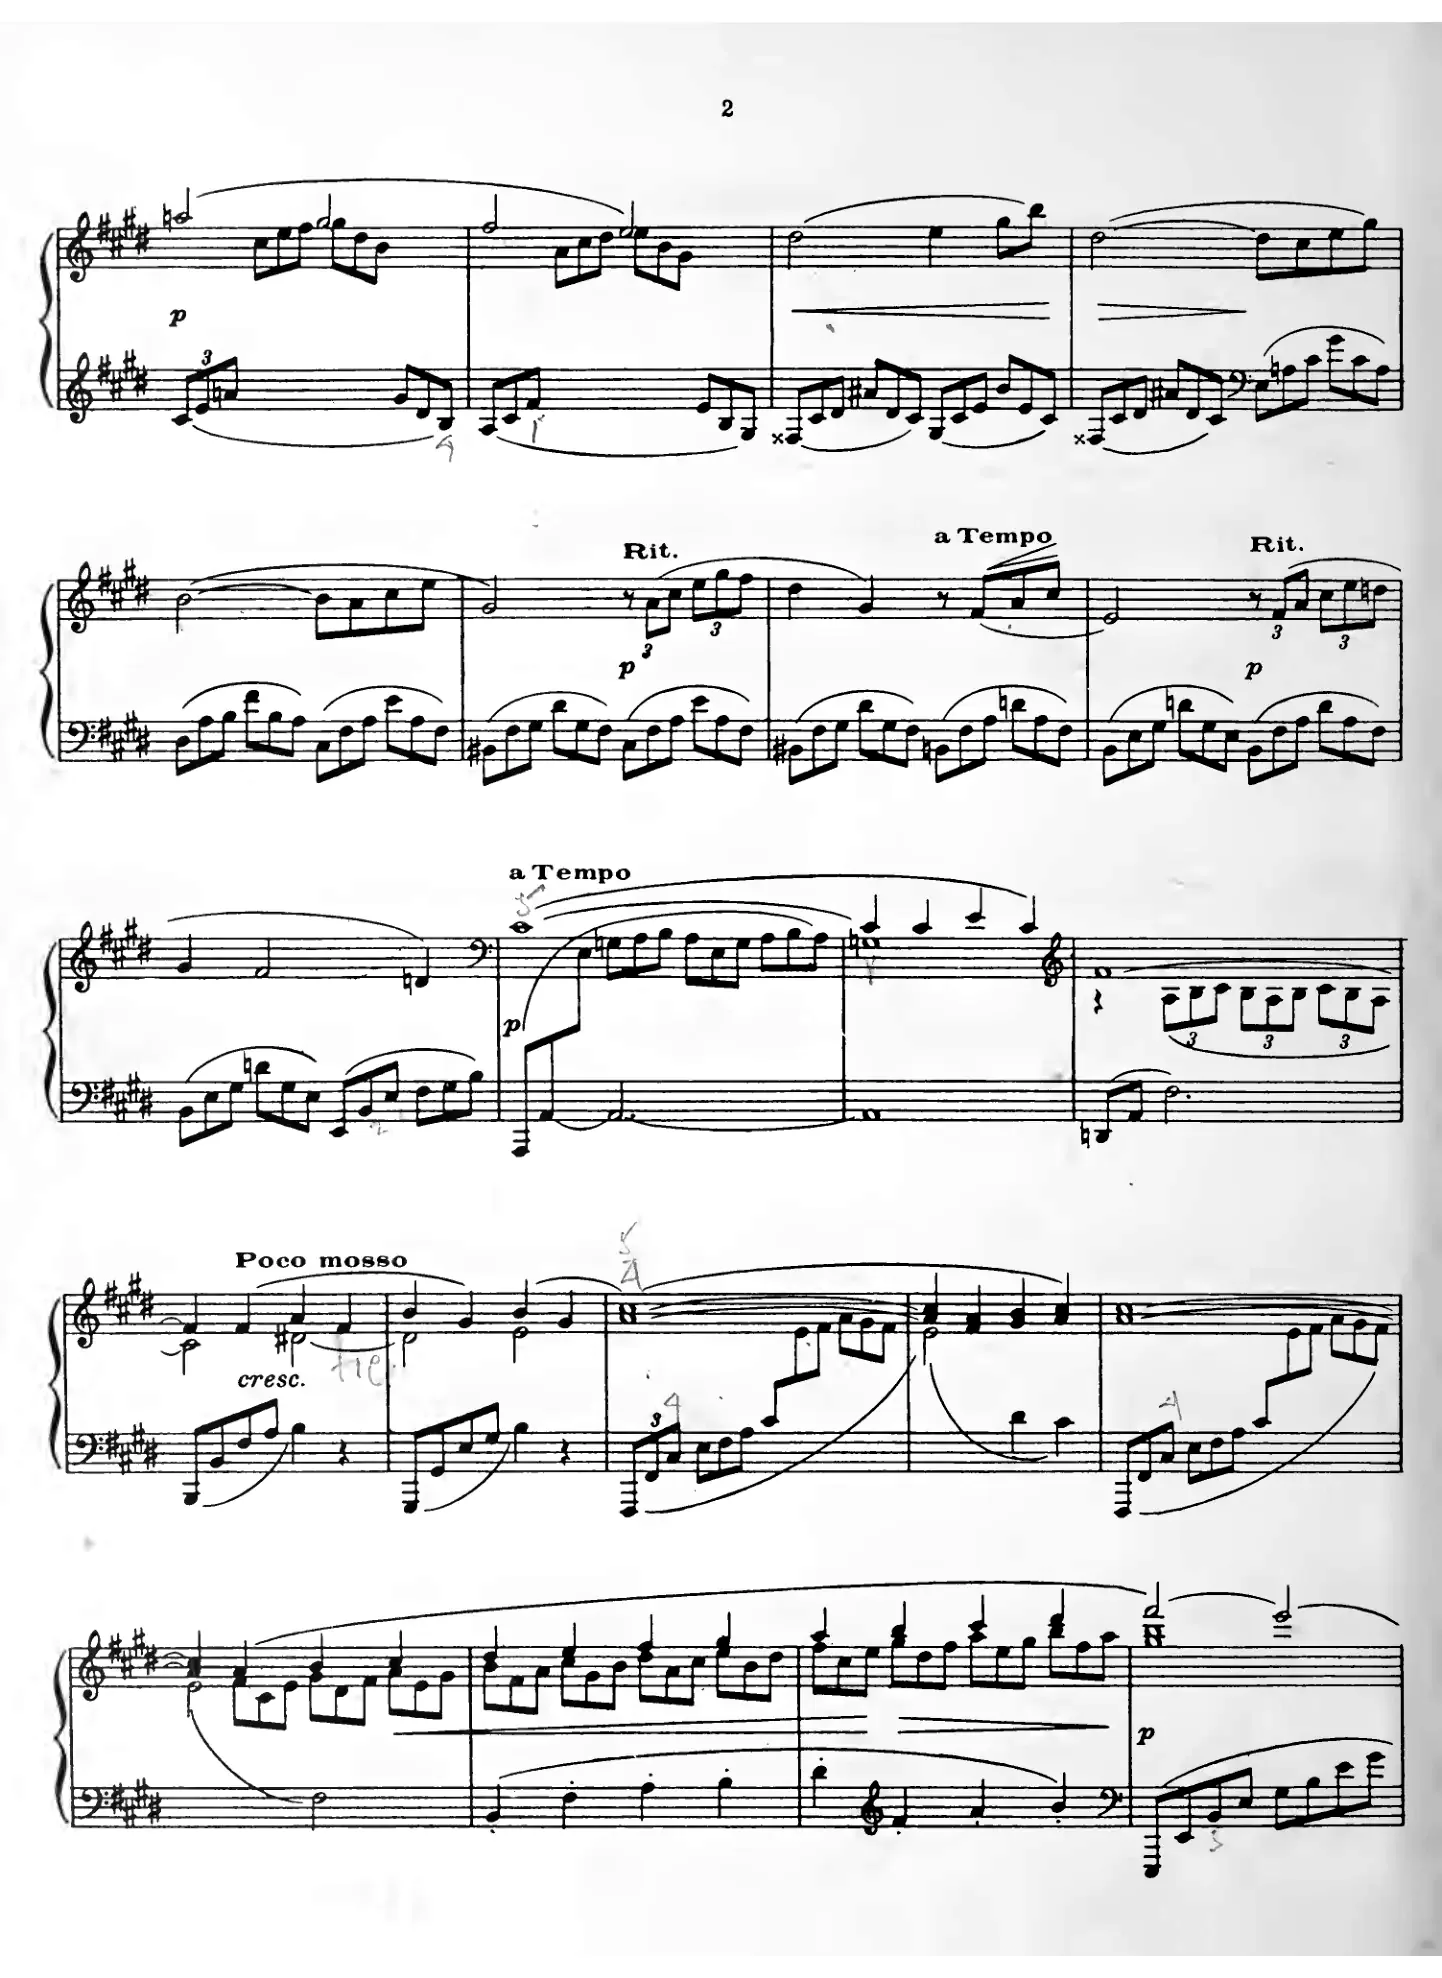
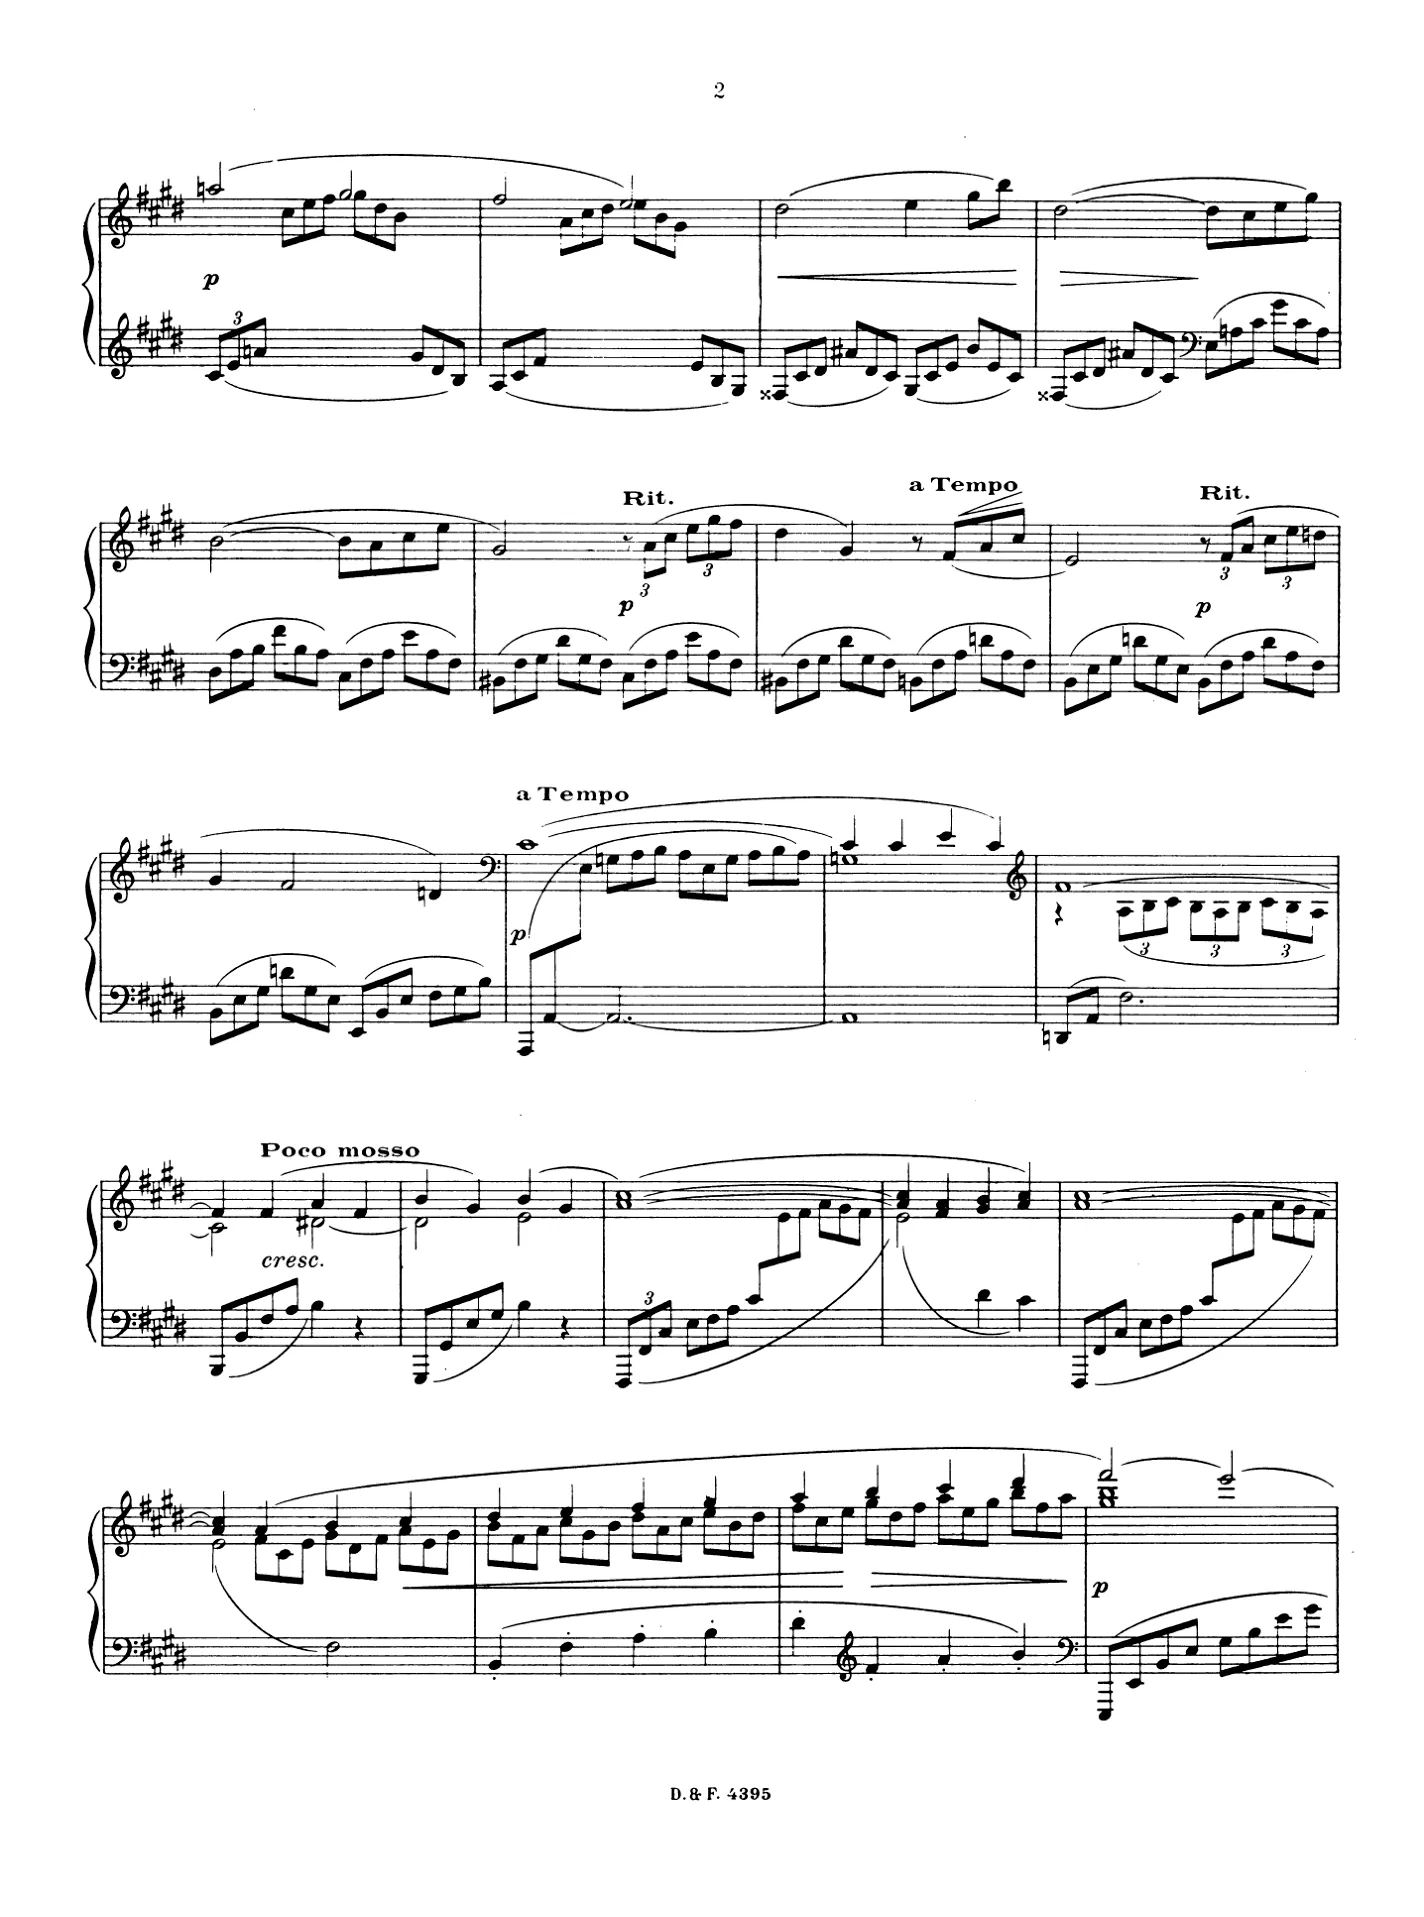
Debussy Arabesques: re-source both from clean Durand 4395 scan + group as 'Deux Arabesques' collection
Re-sliced Arabesque No.1 (deb-arab1) & No.2 (debussy-g77) from the whitened PD Durand 4395 edition; added coll='Deux Arabesques' to No.1 so Explore shows them together as one work (L.66).

diff --git a/library/score-pages.js b/library/score-pages.js
@@ -1,1 +1,1 @@
-window.SCORE_PAGE_AR = {"clementi-gradus":1.3866,"bach-inv-1":1.3,"bach-inv-4":1.3823,"bach-inv-8":1.3823,"bach-inv-13":1.3823,"bach-sinf-15":1.3823,"bach-bwv939":1.3836,"bach-bwv999":1.3836,"bach-minuet-g":1.6429,"bach-goldberg-aria":1.3823,"bach-partita1-prel":1.3823,"bach-french5-sarabande":1.3823,"bach-french5-gigue":1.3823,"bach-wtc1-prel-cm":1.3445,"bach-wtc1-prel-c":1.35,"bach-wtc1-fugue-c":1.35,"liszt-g92":1.3487,"liszt-g93":1.3301,"liszt-g95":1.3664,"liszt-g96":1.349,"liszt-g97":1.37,"liszt-g98":1.267,"liszt-g99":1.4503,"liszt-g100":1.4118,"lis-campanella":1.3672,"brahms-g22":1.45,"brahms-g23":1.4629,"brahms-g24":1.3301,"brahms-g28":1.39,"grieg-g34":1.4509,"grieg-g35":1.3206,"grieg-g36":1.3206,"grieg-g37":1.3301,"grieg-g38":1.3301,"grieg-g39":1.3213,"grieg-g40":1.45,"moz-twinkle":1.45,"moz-minuet-f":1.3394,"moz-fantasy-dm":1.3301,"moz-rondo-am":1.3394,"moz-adagio-bm":1.4521,"moz-rondo-d":1.3394,"schumann-g16":1.46,"schubert-g10":1.3547,"schubert-g11":1.3555,"schubert-g12":1.3472,"schubert-g13":1.3462,"schumann-g17":1.3681,"schumann-g18":1.3681,"schumann-g19":1.4504,"schumann-g20":1.307,"schumann-g21":1.307,"schubert-g14":1.4521,"schubert-g15":1.3681,"bee-moon-1":1.3874,"bee-moon-2":1.3874,"bee-moon-3":1.3874,"bee-op49-2":1.391,"bee-waldstein-1":1.405,"bee-appass-1":1.4157,"bee-adieux-1":1.3835,"bee-op109-1":1.4085,"bee-op2-1-1":1.3673,"bee-path-1":1.3673,"bee-path-2":1.3673,"bee-path-3":1.3673,"bee-elise":1.3673,"bee-ecossaises":1.3673,"bee-diabelli":1.3301,"bee-minuet-g":1.3673,"bee-bag126-1":1.349,"mendelssohn-g29":1.3245,"mendelssohn-g30":1.3245,"mendelssohn-g31":1.3245,"tchaikovsky-g41":1.4023,"tchaikovsky-g42":1.4023,"tchaikovsky-g43":1.4023,"tchaikovsky-g44":1.3551,"tchaikovsky-g45":1.3057,"mendelssohn-g32":1.37,"mendelssohn-g33":1.4303,"rav-pavane":1.2856,"rav-jeux-deau":1.3106,"rav-sonatine-1":1.3059,"rav-sonatine-2":1.3059,"rav-sonatine-3":1.3059,"rav-gaspard-1":1.2941,"rav-gaspard-2":1.2941,"rav-gaspard-3":1.2941,"rav-tombeau-1":1.4131,"rav-tombeau-2":1.4131,"rav-tombeau-3":1.4131,"rav-tombeau-4":1.4131,"rav-tombeau-5":1.4131,"rav-tombeau-6":1.4131,"rav-miroirs-1":1.3333,"rav-miroirs-2":1.3333,"rav-miroirs-3":1.3333,"rav-miroirs-4":1.3333,"rav-miroirs-5":1.3333,"rav-menuet-haydn":1.2748,"debussy-g74":1.2941,"debussy-g75":1.2941,"deb-clair":1.2941,"debussy-g76":1.2941,"debussy-g88":1.4138,"debussy-g87":1.4138,"debussy-g89":1.1211,"cho-028-002":0.9363,"cho-028-003":1.0139,"cho-pre284":1.2214,"cho-028-005":1.2288,"cho-pre286":1.2353,"cho-pre287":0.5817,"cho-028-008":1.0931,"cho-028-009":1.0106,"cho-028-010":0.9673,"cho-028-011":1.0556,"cho-028-012":1.0163,"cho-028-013":1.0842,"cho-028-014":1.0049,"cho-pre2815":1.1708,"cho-028-016":1.0335,"cho-028-017":1.1258,"cho-028-018":1.0523,"cho-028-019":1.2345,"cho-pre2820":0.7141,"cho-028-021":1.1577,"cho-028-022":1.0123,"cho-028-023":1.1242,"cho-028-024":1.1511,"cho-028-001":1.29,"cho-bal1":1.45,"cho-038-001":1.45,"cho-047-001":1.45,"cho-052-001":1.3301,"cho-031-001":1.3163,"cho-057-001":1.2999,"cho-060-001":1.2999,"cho-045-001":1.3301,"cho-042-001":1.3077,"cho-018-001":1.3088,"cho-053-001":1.3042,"cho-036-001":1.2999,"cho-fantimp":1.3301,"cho-007-001":1.3487,"cho-017-004":1.3487,"cho-063-003":1.3487,"cho-034-002":1.3088,"cho-minute":1.3023,"cho-064-002":1.3023,"cho-026-001":1.3042,"cho-010-001":1.326,"cho-et103":1.326,"cho-010-005":1.326,"cho-rev":1.326,"cho-048-001":1.3158,"cho-055-001":1.3158,"cho-062-001":1.3158,"cho-noc272":1.3378,"deb-arab1":1.3717,"debussy-g77":1.3717,"cho-039-001":1.341,"cho-054-001":1.341,"cho-009-001":1.45,"cho-noc92":1.45,"cho-025-001":1.4356,"cho-025-011":1.4374,"cho-025-012":1.4369,"cho-027-001":1.45,"cho-040-001":1.4946,"deb-reverie":1.4509,"deb-reflets":1.4509,"debussy-g78":1.45,"debussy-g79":1.45,"debussy-g80":1.45,"debussy-g86":1.436,"debussy-g85":1.4369,"deb-flaxen":1.4374,"debussy-g83":1.4365,"debussy-g84":1.4365,"deb-gradus":1.4347,"deb-cc-jimbo":1.4356,"deb-cc-serenade":1.4356,"debussy-g82":1.4347,"deb-cc-shepherd":1.4356,"debussy-g81":1.4352,"debussy-g90":1.4043,"deb-feux":1.4509,"deb-poissons":1.4199,"sat-gym1":1.3301,"satie-g118":1.3301,"satie-g119":1.3301,"sat-gnoss1":1.3301,"satie-g120":1.3301,"satie-g121":1.3301,"satie-g122":1.4167,"satie-g123":1.0536,"satie-g124":1.4509,"satie-g125":1.36,"liszt-g94":1.3759,"lis-consol3":1.3759,"liszt-g91":1.3759,"lis-liebe3":1.3759};
+window.SCORE_PAGE_AR = {"clementi-gradus":1.3866,"bach-inv-1":1.3,"bach-inv-4":1.3823,"bach-inv-8":1.3823,"bach-inv-13":1.3823,"bach-sinf-15":1.3823,"bach-bwv939":1.3836,"bach-bwv999":1.3836,"bach-minuet-g":1.6429,"bach-goldberg-aria":1.3823,"bach-partita1-prel":1.3823,"bach-french5-sarabande":1.3823,"bach-french5-gigue":1.3823,"bach-wtc1-prel-cm":1.3445,"bach-wtc1-prel-c":1.35,"bach-wtc1-fugue-c":1.35,"liszt-g92":1.3487,"liszt-g93":1.3301,"liszt-g95":1.3664,"liszt-g96":1.349,"liszt-g97":1.37,"liszt-g98":1.267,"liszt-g99":1.4503,"liszt-g100":1.4118,"lis-campanella":1.3672,"brahms-g22":1.45,"brahms-g23":1.4629,"brahms-g24":1.3301,"brahms-g28":1.39,"grieg-g34":1.4509,"grieg-g35":1.3206,"grieg-g36":1.3206,"grieg-g37":1.3301,"grieg-g38":1.3301,"grieg-g39":1.3213,"grieg-g40":1.45,"moz-twinkle":1.45,"moz-minuet-f":1.3394,"moz-fantasy-dm":1.3301,"moz-rondo-am":1.3394,"moz-adagio-bm":1.4521,"moz-rondo-d":1.3394,"schumann-g16":1.46,"schubert-g10":1.3547,"schubert-g11":1.3555,"schubert-g12":1.3472,"schubert-g13":1.3462,"schumann-g17":1.3681,"schumann-g18":1.3681,"schumann-g19":1.4504,"schumann-g20":1.307,"schumann-g21":1.307,"schubert-g14":1.4521,"schubert-g15":1.3681,"bee-moon-1":1.3874,"bee-moon-2":1.3874,"bee-moon-3":1.3874,"bee-op49-2":1.391,"bee-waldstein-1":1.405,"bee-appass-1":1.4157,"bee-adieux-1":1.3835,"bee-op109-1":1.4085,"bee-op2-1-1":1.3673,"bee-path-1":1.3673,"bee-path-2":1.3673,"bee-path-3":1.3673,"bee-elise":1.3673,"bee-ecossaises":1.3673,"bee-diabelli":1.3301,"bee-minuet-g":1.3673,"bee-bag126-1":1.349,"mendelssohn-g29":1.3245,"mendelssohn-g30":1.3245,"mendelssohn-g31":1.3245,"tchaikovsky-g41":1.4023,"tchaikovsky-g42":1.4023,"tchaikovsky-g43":1.4023,"tchaikovsky-g44":1.3551,"tchaikovsky-g45":1.3057,"mendelssohn-g32":1.37,"mendelssohn-g33":1.4303,"rav-pavane":1.2856,"rav-jeux-deau":1.3106,"rav-sonatine-1":1.3059,"rav-sonatine-2":1.3059,"rav-sonatine-3":1.3059,"rav-gaspard-1":1.2941,"rav-gaspard-2":1.2941,"rav-gaspard-3":1.2941,"rav-tombeau-1":1.4131,"rav-tombeau-2":1.4131,"rav-tombeau-3":1.4131,"rav-tombeau-4":1.4131,"rav-tombeau-5":1.4131,"rav-tombeau-6":1.4131,"rav-miroirs-1":1.3333,"rav-miroirs-2":1.3333,"rav-miroirs-3":1.3333,"rav-miroirs-4":1.3333,"rav-miroirs-5":1.3333,"rav-menuet-haydn":1.2748,"debussy-g74":1.2941,"debussy-g75":1.2941,"deb-clair":1.2941,"debussy-g76":1.2941,"debussy-g88":1.4138,"debussy-g87":1.4138,"debussy-g89":1.1211,"cho-028-002":0.9363,"cho-028-003":1.0139,"cho-pre284":1.2214,"cho-028-005":1.2288,"cho-pre286":1.2353,"cho-pre287":0.5817,"cho-028-008":1.0931,"cho-028-009":1.0106,"cho-028-010":0.9673,"cho-028-011":1.0556,"cho-028-012":1.0163,"cho-028-013":1.0842,"cho-028-014":1.0049,"cho-pre2815":1.1708,"cho-028-016":1.0335,"cho-028-017":1.1258,"cho-028-018":1.0523,"cho-028-019":1.2345,"cho-pre2820":0.7141,"cho-028-021":1.1577,"cho-028-022":1.0123,"cho-028-023":1.1242,"cho-028-024":1.1511,"cho-028-001":1.29,"cho-bal1":1.45,"cho-038-001":1.45,"cho-047-001":1.45,"cho-052-001":1.3301,"cho-031-001":1.3163,"cho-057-001":1.2999,"cho-060-001":1.2999,"cho-045-001":1.3301,"cho-042-001":1.3077,"cho-018-001":1.3088,"cho-053-001":1.3042,"cho-036-001":1.2999,"cho-fantimp":1.3301,"cho-007-001":1.3487,"cho-017-004":1.3487,"cho-063-003":1.3487,"cho-034-002":1.3088,"cho-minute":1.3023,"cho-064-002":1.3023,"cho-026-001":1.3042,"cho-010-001":1.326,"cho-et103":1.326,"cho-010-005":1.326,"cho-rev":1.326,"cho-048-001":1.3158,"cho-055-001":1.3158,"cho-062-001":1.3158,"cho-noc272":1.3378,"deb-arab1":1.346,"debussy-g77":1.3462,"cho-039-001":1.341,"cho-054-001":1.341,"cho-009-001":1.45,"cho-noc92":1.45,"cho-025-001":1.4356,"cho-025-011":1.4374,"cho-025-012":1.4369,"cho-027-001":1.45,"cho-040-001":1.4946,"deb-reverie":1.4509,"deb-reflets":1.4509,"debussy-g78":1.45,"debussy-g79":1.45,"debussy-g80":1.45,"debussy-g86":1.436,"debussy-g85":1.4369,"deb-flaxen":1.4374,"debussy-g83":1.4365,"debussy-g84":1.4365,"deb-gradus":1.4347,"deb-cc-jimbo":1.4356,"deb-cc-serenade":1.4356,"debussy-g82":1.4347,"deb-cc-shepherd":1.4356,"debussy-g81":1.4352,"debussy-g90":1.4043,"deb-feux":1.4509,"deb-poissons":1.4199,"sat-gym1":1.3301,"satie-g118":1.3301,"satie-g119":1.3301,"sat-gnoss1":1.3301,"satie-g120":1.3301,"satie-g121":1.3301,"satie-g122":1.4167,"satie-g123":1.0536,"satie-g124":1.4509,"satie-g125":1.36,"liszt-g94":1.3759,"lis-consol3":1.3759,"liszt-g91":1.3759,"lis-liebe3":1.3759};

diff --git a/index.html b/index.html
@@ -850,7 +850,7 @@ const PIECES = [
   {"id":"cho-063-003","c":"chopin","coll":"Mazurkas","title":"Mazurka in C♯ minor","sub":"Op. 63 No. 3","key":"C♯ minor","level":4,"year":1846,"dur":3,"story":"One of the last mazurkas Chopin published — elegant and waltz-like, it closes with a graceful canon, the melody chasing itself in a final, tender farewell to the dance he loved most."},
   {"id":"cho-064-002","c":"chopin","coll":"Waltzes","title":"Waltz in C♯ minor","sub":"Op. 64 No. 2","key":"C♯ minor","level":5,"year":1847,"dur":3,"story":"The wistful, restless companion to the 'Minute' Waltz — its melancholy main theme keeps yielding to a faster, whirling section, a bittersweet push-and-pull that has made it one of his best-loved waltzes."},
   {"id":"deb-clair","c":"debussy","title":"Clair de Lune","sub":"Suite bergamasque","key":"D♭ major","level":7,"year":1905,"dur":5,"story":"'Moonlight', the third movement of the Suite bergamasque, named after a Verlaine poem. Its washes of sound demand the subtlest half-pedalling in the repertoire."},
-  {"id":"deb-arab1","c":"debussy","title":"Arabesque No. 1","sub":"L. 66","key":"E major","level":5,"year":1891,"dur":4,"story":"An early work already full of Debussy's fingerprints — flowing triplets, gently oscillating harmony, and cross-rhythms that must sound effortless."},
+  {"id":"deb-arab1","c":"debussy","coll":"Deux Arabesques","title":"Arabesque No. 1","sub":"L. 66","key":"E major","level":5,"year":1891,"dur":4,"story":"An early work already full of Debussy's fingerprints — flowing triplets, gently oscillating harmony, and cross-rhythms that must sound effortless."},
   {"id":"deb-reverie","c":"debussy","title":"Rêverie","sub":"L. 68","key":"F major","level":5,"year":1890,"dur":4.5,"story":"Debussy later dismissed this dreamy miniature as a youthful work of 'no consequence', but the public disagreed — it remains one of his most-played pieces."},
   {"id":"deb-flaxen","c":"debussy","title":"The Girl with the Flaxen Hair","sub":"Préludes I","key":"G♭ major","level":4,"year":1910,"dur":2.5,"story":"A prelude of pure serenity built on pentatonic melody. Its quietness is deceptive: balancing the chords so the tune floats on top is the whole art of it."},
   {"id":"deb-gradus","c":"debussy","title":"Doctor Gradus ad Parnassum","sub":"Children's Corner","key":"C major","level":6,"year":1908,"dur":2,"story":"A gentle parody of dry Czerny exercises, written for his daughter 'Chouchou'. Behind the joke is a genuine study in even, glassy finger-work."},
@@ -1130,7 +1130,7 @@ const SCORES = {
 const SCORE_PAGE = {};  // per-movement PDFs now start at page 1 — no anchors needed
 // Pieces that should show the PDF score even if MusicXML/notes exist (user preference)
 const FORCE_PDF = new Set(["rav-menuet-haydn"]);
-const SCORE_VER = "20260914d";  // bump whenever a PDF is replaced in-place, to bust browser cache
+const SCORE_VER = "20260914e";  // bump whenever a PDF is replaced in-place, to bust browser cache
 function pdfSrc(id, params){
   const pg = SCORE_PAGE[id] ? "page=" + SCORE_PAGE[id] : "";
   const q = [pg, params].filter(Boolean).join("&");
